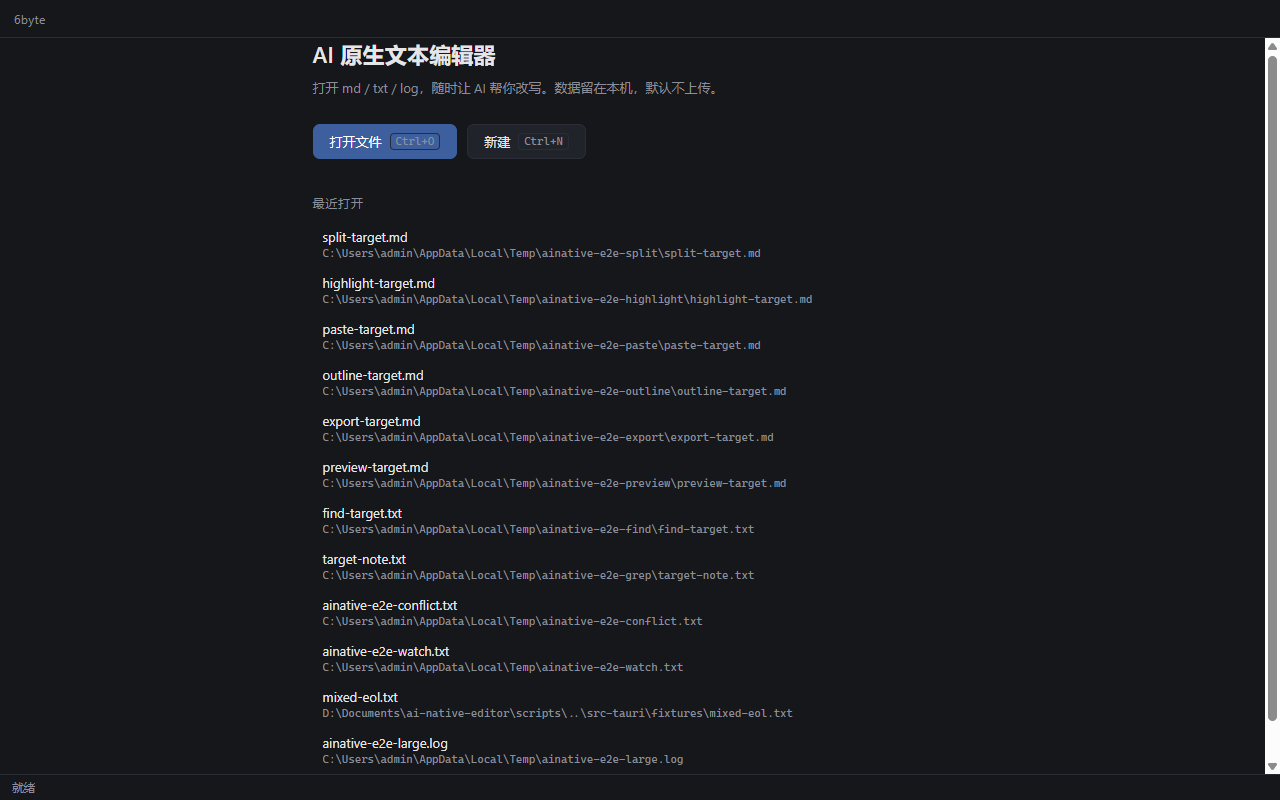
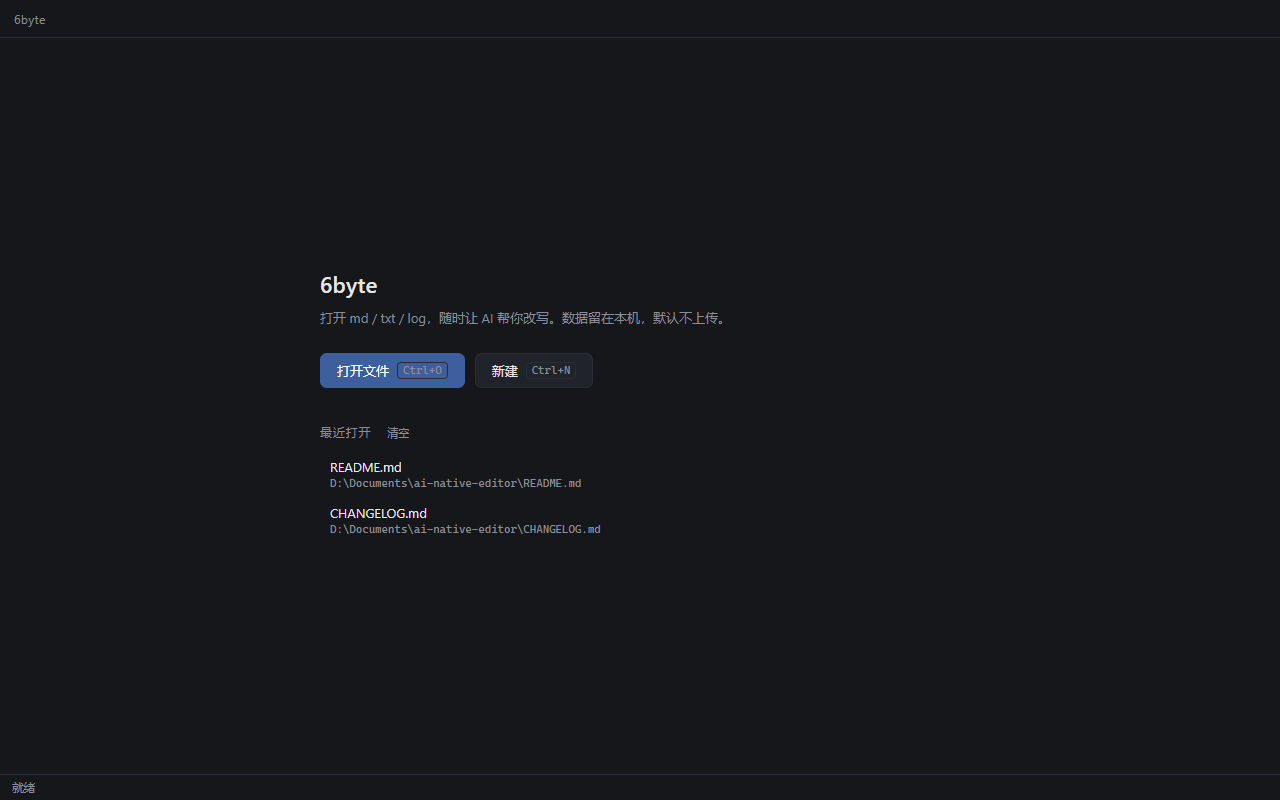
feat(welcome): delete single recent entries and clear the list (v0.1.4)

diff --git a/src/features/Welcome.tsx b/src/features/Welcome.tsx
@@ -7,13 +7,17 @@ interface Props {
   onOpenPath: (path: string) => void;
 }
 
+const fileName = (path: string) => path.split(/[\\/]/).pop() || path;
+
 export default function Welcome({ onOpen, onNew, onOpenPath }: Props) {
   const recent = useWorkspace((s) => s.recent);
+  const removeRecent = useWorkspace((s) => s.removeRecent);
+  const setRecent = useWorkspace((s) => s.setRecent);
 
   return (
     <div className="welcome">
       <div className="welcome__inner">
-        <h1 className="welcome__title">AI 原生文本编辑器</h1>
+        <h1 className="welcome__title">6byte</h1>
         <p className="welcome__sub">
           打开 md / txt / log，随时让 AI 帮你改写。数据留在本机，默认不上传。
         </p>
@@ -37,13 +41,35 @@ export default function Welcome({ onOpen, onNew, onOpenPath }: Props) {
 
         {recent.length > 0 && (
           <div className="welcome__recent">
-            <h2>最近打开</h2>
+            <div className="welcome__recent-head">
+              <h2>最近打开</h2>
+              <button
+                type="button"
+                className="welcome__recent-clear"
+                title="清空最近打开列表"
+                onClick={() => setRecent([])}
+              >
+                清空
+              </button>
+            </div>
             <ul>
               {recent.map((path) => (
-                <li key={path}>
+                <li key={path} className="welcome__recent-item">
                   <button className="link" title={path} onClick={() => onOpenPath(path)}>
-                    <span className="welcome__recent-name">{path.split(/[\\/]/).pop()}</span>
+                    <span className="welcome__recent-name">{fileName(path)}</span>
                     <span className="welcome__recent-path">{path}</span>
+                  </button>
+                  <button
+                    type="button"
+                    className="welcome__recent-remove"
+                    title="从最近打开中移除"
+                    aria-label={`从最近打开中移除 ${fileName(path)}`}
+                    onClick={(event) => {
+                      event.stopPropagation();
+                      removeRecent(path);
+                    }}
+                  >
+                    ×
                   </button>
                 </li>
               ))}

diff --git a/src/styles.css b/src/styles.css
@@ -1007,3 +1007,63 @@ code {
   background: var(--fg);
   opacity: 0.9;
 }
+
+/* ---------- recent files: delete controls ---------- */
+
+.welcome__recent-head {
+  display: flex;
+  align-items: baseline;
+  gap: 10px;
+  margin-bottom: 10px;
+}
+
+.welcome__recent-head h2 {
+  margin: 0;
+}
+
+.welcome__recent-clear {
+  border: none;
+  background: transparent;
+  color: var(--fg-dim);
+  font-size: 11px;
+  cursor: pointer;
+}
+
+.welcome__recent-clear:hover {
+  color: var(--accent);
+}
+
+.welcome__recent-item {
+  display: flex;
+  align-items: center;
+  gap: 4px;
+}
+
+.welcome__recent-item .link {
+  flex: 1;
+  min-width: 0;
+}
+
+.welcome__recent-remove {
+  flex: 0 0 auto;
+  width: 22px;
+  height: 22px;
+  border: none;
+  border-radius: 4px;
+  background: transparent;
+  color: var(--fg-dim);
+  font-size: 14px;
+  line-height: 1;
+  cursor: pointer;
+  opacity: 0;
+}
+
+.welcome__recent-item:hover .welcome__recent-remove,
+.welcome__recent-remove:focus-visible {
+  opacity: 1;
+}
+
+.welcome__recent-remove:hover {
+  background: rgba(247, 118, 142, 0.15);
+  color: var(--danger);
+}

diff --git a/src/stores/workspace.test.ts b/src/stores/workspace.test.ts
@@ -162,6 +162,26 @@ describe("reloadLargeTab", () => {
   });
 });
 
+describe("removeRecent", () => {
+  it("drops a single entry and keeps the order", () => {
+    useWorkspace.getState().setRecent(["D:/a.md", "D:/b.md", "D:/c.md"]);
+    useWorkspace.getState().removeRecent("D:/b.md");
+    expect(useWorkspace.getState().recent).toEqual(["D:/a.md", "D:/c.md"]);
+  });
+
+  it("ignores paths that are not in the list", () => {
+    useWorkspace.getState().setRecent(["D:/a.md"]);
+    useWorkspace.getState().removeRecent("D:/missing.md");
+    expect(useWorkspace.getState().recent).toEqual(["D:/a.md"]);
+  });
+
+  it("clears the list when the last entry is removed", () => {
+    useWorkspace.getState().setRecent(["D:/a.md"]);
+    useWorkspace.getState().removeRecent("D:/a.md");
+    expect(useWorkspace.getState().recent).toEqual([]);
+  });
+});
+
 describe("closeTab", () => {
   it("activates the neighbouring tab when the active one closes", () => {
     const first = tabFromFile(makeFile("D:/tmp/a.md"));

diff --git a/src/stores/workspace.ts b/src/stores/workspace.ts
@@ -52,6 +52,8 @@ interface WorkspaceState {
   setError(message: string | null): void;
   setNotice(message: string | null): void;
   setRecent(paths: string[]): void;
+  /** Remove one entry from the recent list (e.g. deleted/moved file). */
+  removeRecent(path: string): void;
 }
 
 export const countLines = (content: string): number =>
@@ -241,6 +243,8 @@ export const useWorkspace = create<WorkspaceState>((set) => ({
   setError: (message) => set({ error: message }),
   setNotice: (message) => set({ notice: message }),
   setRecent: (paths) => set({ recent: dedupe(paths) }),
+  removeRecent: (path) =>
+    set((state) => ({ recent: state.recent.filter((item) => item !== path) })),
 }));
 
 export const selectActiveTab = (state: WorkspaceState): Tab | null =>

diff --git a/README.md b/README.md
@@ -6,7 +6,7 @@
 [![Release](https://img.shields.io/github/v/release/wufangqi/6byte?label=release)](https://github.com/wufangqi/6byte/releases/latest)
 [![License](https://img.shields.io/github/license/wufangqi/6byte)](./LICENSE)
 
-**当前阶段：M0–M2 已交付并发布 v0.1.3（编码内核、数据安全加固、大文件分级只读预览、文件监听、跨文件 grep、Markdown 分屏预览/导出/大纲/图片粘贴/Shiki 高亮），下一步 M3 AI 层**
+**当前阶段：M0–M2 已交付并发布 v0.1.4（编码内核、数据安全加固、大文件分级只读预览、文件监听、跨文件 grep、Markdown 分屏预览/导出/大纲/图片粘贴/Shiki 高亮），下一步 M3 AI 层**
 
 路线图与技术选型：[技术选型与路线图.md](./技术选型与路线图.md) ·
 问题盘点：[docs/项目梳理.md](./docs/项目梳理.md) ·
@@ -43,7 +43,7 @@
 
 ## 安装（终端用户）
 
-从 [Releases v0.1.3](https://github.com/wufangqi/6byte/releases/tag/v0.1.3) 下载：
+从 [Releases v0.1.4](https://github.com/wufangqi/6byte/releases/tag/v0.1.4) 下载：
 
 - `aneditor_0.1.1_x64-setup.exe`（NSIS，单用户安装，无需管理员权限，推荐）
 - `aneditor_0.1.1_x64_en-US.msi`（企业部署 / 静默安装）
@@ -86,14 +86,14 @@ powershell -NoProfile -ExecutionPolicy Bypass -File scripts/e2e-smoke.ps1
 |---|---|---|
 | 前端类型检查 | `pnpm exec tsc --noEmit` | ✅ 0 error |
 | Lint / 格式化 | `pnpm lint`、`pnpm format:check` | ✅ 通过 |
-| 前端单测 | `pnpm test` | ✅ 64/64（store + 格式化 + 大文件窗口几何 + markdown 渲染/图片路径 + 大纲 + 滚动同步 + HTML 导出 + 语言别名 + 分屏比例） |
+| 前端单测 | `pnpm test` | ✅ 67/67（store + 格式化 + 大文件窗口几何 + markdown 渲染/图片路径 + 大纲 + 滚动同步 + HTML 导出 + 语言别名 + 分屏比例） |
 | 前端打包 | `pnpm build` | ✅ 主包 920 KB / gzip 324 KB（+ 按需 Shiki chunk，总计 2.3 MB） |
 | Rust 单测 | `cargo test --lib` | ✅ 49 passed / 0 failed（+3 ignored 性能探针；编码 + 文件命令 + 大文件索引/区间 + 文件监听 + grep + 图片落盘 + fixture 语料） |
 | Rust 格式 | `cargo fmt --all -- --check` | ✅ 通过 |
 | Rust Clippy | `cargo clippy --all-targets -- -D warnings` | ✅ 通过（本机需 `RUSTUP_TOOLCHAIN=stable-x86_64-pc-windows-msvc`，见 docs/perf.md） |
 | 安装包 | `pnpm tauri build` | ✅ MSI 2.77 MB / NSIS 2.10 MB |
 | 安装与启动 | 安装版（NSIS 静默装） | ✅ 冷启动中位 0.094 s，关窗拦截生效 |
-| 端到端冒烟 | `scripts/e2e-smoke.ps1` | ✅ 51/51（大文件预览 / 混合换行 / 会话失效 / 外部修改重载 / 脏冲突三选一 / 跨文件搜索跳转 / 查找替换 / Markdown 分屏预览 / 导出 HTML / 大纲跳转 / 图片粘贴 / Shiki 高亮 / 分屏拖拽） |
+| 端到端冒烟 | `scripts/e2e-smoke.ps1` | ✅ 55/55（大文件预览 / 混合换行 / 会话失效 / 外部修改重载 / 脏冲突三选一 / 跨文件搜索跳转 / 查找替换 / Markdown 分屏预览 / 导出 HTML / 大纲跳转 / 图片粘贴 / Shiki 高亮 / 分屏拖拽 / 最近删除） |
 | 三平台 CI | GitHub Actions | ✅ `CI` 全绿（Windows / macOS / Ubuntu × 前端 + Rust，run 39599120518） |
 
 ## 性能（诚实数据，详见 [docs/perf.md](./docs/perf.md)）
@@ -113,7 +113,7 @@ powershell -NoProfile -ExecutionPolicy Bypass -File scripts/e2e-smoke.ps1
 
 - [x] 打开 / 保存 / 另存为（Ctrl+O / Ctrl+S / Ctrl+Shift+S）、新建（Ctrl+N）、关闭（Ctrl+W）
 - [x] 多标签、脏标记、中键关闭、拖拽文件到窗口打开
-- [x] 会话恢复与最近文件（12 个）
+- [x] 会话恢复与最近文件（12 个，支持单项删除与清空）
 - [x] 编码检测：UTF-8 / UTF-8 BOM / UTF-16LE / UTF-16BE / chardetng 猜测（含 GBK）
 - [x] **原编码 / BOM / 换行符回写**，有损解码文件保存前二次确认
 - [x] 原子保存（临时文件 + rename，失败降级）

diff --git a/docs/待办清单.md b/docs/待办清单.md
@@ -433,3 +433,13 @@
 | 实现 | 新增 `features/splitPane.ts`（`clampSplitPercent` / `adjustSplitPercent` / `normalizeSplitPercent` + 7 例单测）；`App.tsx` 用 pointer 事件 + 容器 rect 计算百分比，拖动期间锁定光标与文本选择；`styles.css` 新增 `.split__pane` / `.split__divider` 样式 |
 | 顺带修复 | ① 分屏比例首次读取时 `null` 被当成 0 → 钳制到 20%，补默认 50%；② 大纲跳转改用显式 `scrollTop = targetOffset`，避免 `scrollIntoView` 滚动祖先容器导致预览不滚动 |
 | 验证 | `tsc` / `eslint` / `prettier` 全绿；`vitest` **64/64**；E2E 扩到 13 步 **51/51**（新增「分隔条存在 / 拖拽后编辑区变窄 / 双击恢复 50/50」）；`pnpm tauri build` 产出 `6byte_0.1.3_x64-setup.exe`（2.11 MB）/ `.msi`（2.77 MB） |
+
+### 2026-10-22 · 第十七批（v0.1.4：最近打开支持删除）
+
+| 项 | 内容 |
+|---|---|
+| 功能 | 欢迎页「最近打开」支持单项删除（悬停条目显示 ×，点击移除且不触发打开）与一键「清空」；删除后通过既有订阅立即写回 `localStorage`（`ainative.recent`） |
+| 实现 | `stores/workspace.ts` 新增 `removeRecent(path)`；`features/Welcome.tsx` 重写最近列表（`.welcome__recent-item` + 删除/清空按钮，标题顺带改为 6byte）；`styles.css` 增加删除按钮样式（默认隐藏、悬停/聚焦显示） |
+| 单测 | 新增 3 例：删除一项保持顺序、删除不存在的路径无副作用、删空后列表为空；`vitest` **67/67** |
+| E2E | 扩到 14 步：预置两条最近记录 → 断言两条都有删除按钮 → 点击第一条 × 后剩一条 → `localStorage` 只保留剩余项；**55/55 断言**。顺带修复 E2E 首步偶发失败：新增 `Wait-AppReady`，每次会话/重载后轮询 `.app` 挂载完成再操作 |
+| 构建 | `6byte_0.1.4_x64-setup.exe`（2.11 MB）/ `6byte_0.1.4_x64_en-US.msi`（2.77 MB），已安装验证 |

diff --git a/CONTRIBUTING.md b/CONTRIBUTING.md
@@ -43,11 +43,11 @@ Start-Process "$env:LOCALAPPDATA\6byte\6byte.exe"
 powershell -NoProfile -ExecutionPolicy Bypass -File scripts/e2e-smoke.ps1
 ```
 
-覆盖内容（13 步 / 51 条断言）：大文件只读预览（首屏 + 滚动重取）、混合换行徽标、会话恢复时失效文件的
+覆盖内容（14 步 / 55 条断言）：大文件只读预览（首屏 + 滚动重取）、混合换行徽标、会话恢复时失效文件的
 一次性提示与清理、外部修改后干净标签静默重载、脏标签外部修改的三选一冲突弹窗、Ctrl+Shift+F 跨文件搜索
 并点击跳转、Ctrl+F 查找替换（面板中文化、命中高亮、全部替换后变脏）、Ctrl+Shift+M Markdown 分屏预览
 （渲染 h1/粗体/代码块 + 输入后预览实时更新）、预览导出 HTML（成功横幅 + 目标文件内容）、大纲列表
-（条目数 + 点击滚动）、图片粘贴（构造 ClipboardEvent → Markdown 片段 + assets/ 落盘 + asset 协议图片）、Shiki 高亮（代码块被替换为 `<pre class="shiki">` 且产生语法 token）、分屏分隔条拖拽（拖动变窄 + 双击恢复 50/50）。
+（条目数 + 点击滚动）、图片粘贴（构造 ClipboardEvent → Markdown 片段 + assets/ 落盘 + asset 协议图片）、Shiki 高亮（代码块被替换为 `<pre class="shiki">` 且产生语法 token）、分屏分隔条拖拽（拖动变窄 + 双击恢复 50/50）、最近打开删除（删一条 + localStorage 同步）。
 
 > 注意：该脚本是 PowerShell 5.1 脚本，文件必须保存为 **UTF-8 with BOM**，否则 PS 5.1 会按 ANSI 解析中文
 > 字面量导致断言失败。修改后请用 `[IO.File]::WriteAllText($path, $text, [Text.UTF8Encoding]::new($true))`

diff --git a/CHANGELOG.md b/CHANGELOG.md
@@ -5,6 +5,16 @@
 
 ## [Unreleased]
 
+## [0.1.4] - 2026-10-22
+
+### Added
+
+- 「最近打开」支持**单项删除**（悬停条目显示 ×）与一键**清空**；删除后立即写回 `localStorage`。
+
+### Fixed
+
+- 欢迎页大标题仍显示旧名「AI 原生文本编辑器」，改为 **6byte**。
+
 ## [0.1.3] - 2026-10-22
 
 ### Added
@@ -78,7 +88,7 @@
 
 ### Tooling
 
-- 新增 ESLint 10（flat config）、Prettier、Vitest；前端单测 64 例、Rust 单测 52 个用例（49 通过 + 3 个 ignored 性能探针）。
+- 新增 ESLint 10（flat config）、Prettier、Vitest；前端单测 67 例、Rust 单测 52 个用例（49 通过 + 3 个 ignored 性能探针）。
 - 新增 GitHub Actions CI（三平台：前端检查 + Rust fmt/clippy/test）。
 - 新增 `scripts/e2e-smoke.ps1`：通过 WebView2 DevTools 协议驱动安装版，覆盖单元测试到不了的 12 条路径
   （大文件预览 / 混合换行 / 会话失效 / 外部修改重载 / 脏标签冲突三选一 / 跨文件搜索跳转 / 查找替换 /
